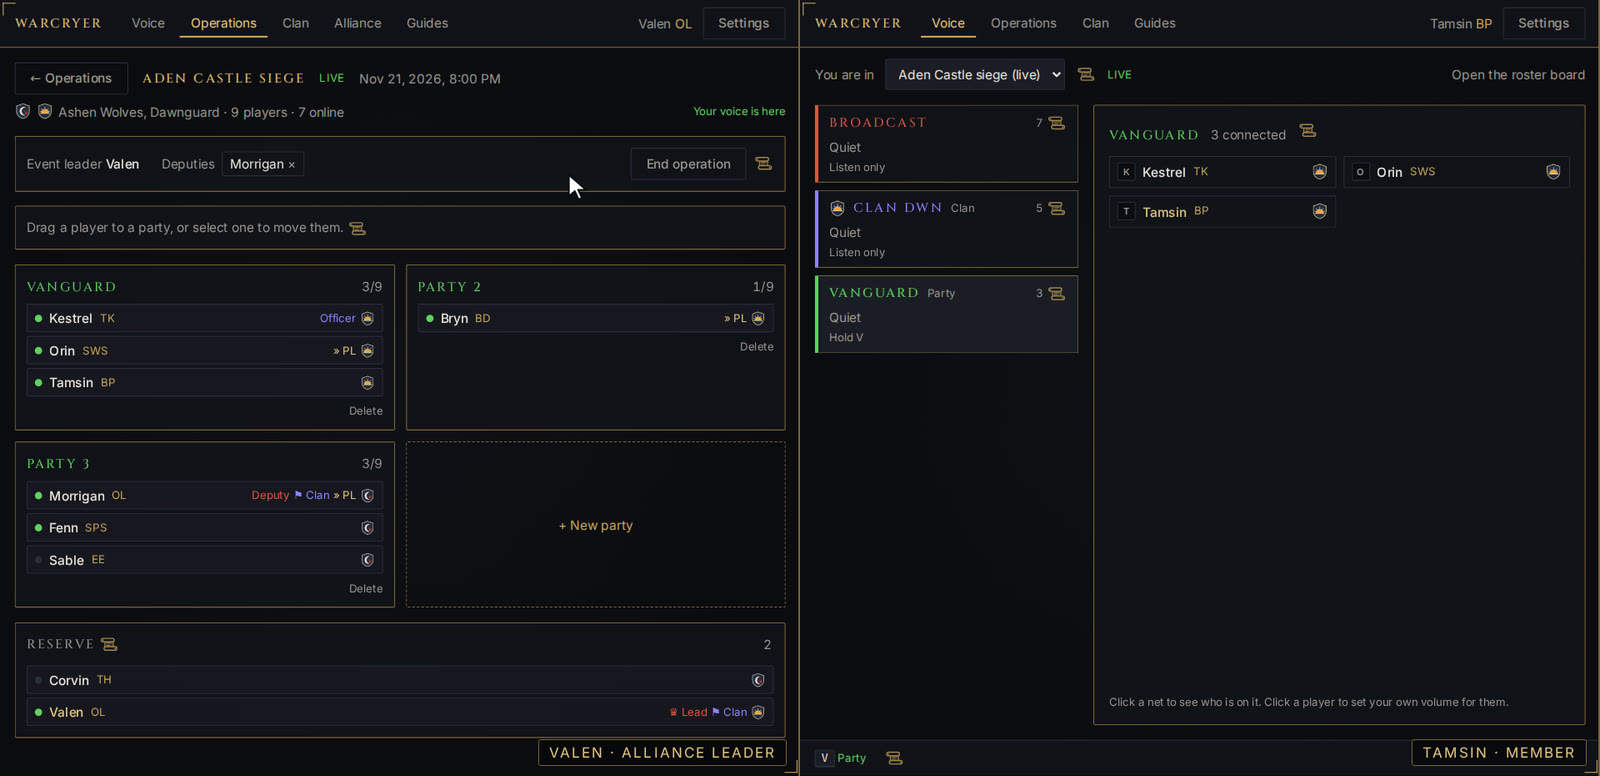
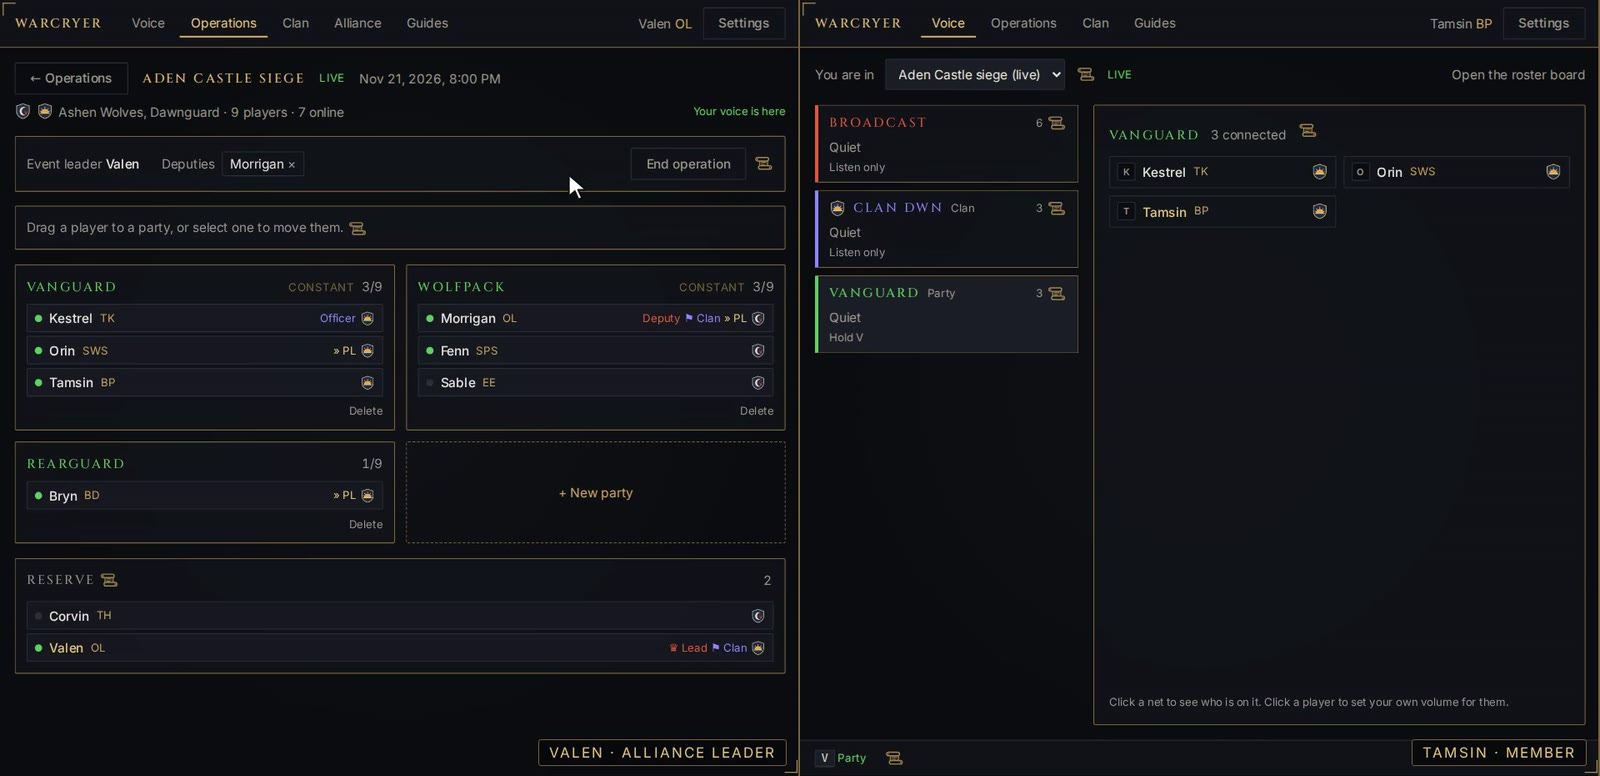
Bring the page up to date with 0.8
Constant parties, starting from an earlier operation, invite links, the
party-leader handover, signed updates and account deletion. New
screenshots from the current walkthrough recording; downloads link to
the latest release.

Claude-Session: https://claude.ai/code/session_01DWJgyuiwrFFG25WQs1oJDc

diff --git a/index.html b/index.html
@@ -21,7 +21,7 @@
     <a href="#nets">How it works</a>
     <a href="#leaders">For leaders</a>
     <a href="#open">Open source</a>
-    <a class="btn small" href="https://github.com/Warcryer/client/releases">Download</a>
+    <a class="btn small" href="https://github.com/Warcryer/client/releases/latest">Download</a>
   </nav>
 </header>
 
@@ -33,15 +33,15 @@
   <p class="tagline">Voice that follows the chain of command.</p>
   <p class="lede">Push-to-talk voice for large gaming alliances. The event roster decides who hears whom, so nobody picks a channel and nobody talks over the call.</p>
   <div class="actions">
-    <a class="btn" href="https://github.com/Warcryer/client/releases">Download for Windows</a>
+    <a class="btn" href="https://github.com/Warcryer/client/releases/latest">Download for Windows</a>
     <a class="btn quiet" href="https://github.com/Warcryer/client">Source on GitHub</a>
   </div>
-  <p class="fine">Free and open source. Windows 10 and 11. Early test builds, not yet code-signed.</p>
+  <p class="fine">Free and open source. Windows 10 and 11. Updates itself. Not yet code-signed, so Windows warns on the first install.</p>
 </section>
 
 <section class="shot">
   <figure>
-    <img src="shots/board.jpg" alt="Two players side by side: the leader's roster board with parties of players, and a member's voice screen with their nets" width="1600" height="775" loading="lazy">
+    <img src="shots/board.jpg" alt="Two players side by side: the leader's roster board with three parties, two of them marked as constant parties, and a member's voice screen with her nets" width="1600" height="775" loading="lazy">
     <figcaption>Left, the leader's roster board. Right, the nets a member was placed on. Drag a player to another party and their voice follows within a couple of seconds.</figcaption>
   </figure>
 </section>
@@ -90,19 +90,40 @@
       <figcaption>Left, the leader holds the Broadcast key. Right, a member's Clan and Party nets are lowered.</figcaption>
     </figure>
   </div>
+
+  <div class="split flip">
+    <figure>
+      <img src="shots/handover.jpg" alt="Two players side by side, each with a bar across the top: Orin has dropped out, Vanguard has no one on Command, who leads it now, with buttons to choose" width="1600" height="775" loading="lazy">
+      <figcaption>The party's leader has dropped out. The party (right) and the clan's leader (left) are asked who leads now.</figcaption>
+    </figure>
+    <div>
+      <h3>A party is never cut off</h3>
+      <p>A party's leader is its only voice on Command. If the leader's game crashes or their connection dies, the party and the clan's officers are asked after about thirty seconds who leads now. One click settles it.</p>
+      <h3>And if nobody answers</h3>
+      <p>After thirty seconds more the next member in party order is promoted automatically. The new leader is told, and is on Command at once.</p>
+    </div>
+  </div>
 </section>
 
 <section id="leaders">
   <h2>Run the alliance from the same window</h2>
   <p class="intro">No bouncing between a website, a spreadsheet and a voice app. Each screen offers only what your role allows, and the server checks every action again.</p>
-  <div class="cards">
+  <div class="cards three">
     <article>
       <h3>Operations</h3>
       <p>Create a siege or raid, choose the clans taking part, build parties on a drag-and-drop board, then go live. Everyone on the roster is pulled into their nets at once.</p>
     </article>
     <article>
-      <h3>Clans</h3>
-      <p>Players ask to join; leaders and officers approve. A clan leader can upload a crest, which appears beside each member's name when they speak.</p>
+      <h3>Constant parties</h3>
+      <p>Groups that always fight together are saved once, in order, with a leader. On the board one click places them all, which for most events is most of the roster.</p>
+    </article>
+    <article>
+      <h3>Start from last time</h3>
+      <p>A new operation can begin with the parties, leaders and deputies of an earlier one. Players who have left or been banned since are left out automatically.</p>
+    </article>
+    <article>
+      <h3>Clans and invite links</h3>
+      <p>Players ask to join and leaders approve, or a leader sends an invite link with a set number of uses and days. A clan's crest appears beside each member's name when they speak.</p>
     </article>
     <article>
       <h3>The lounge</h3>
@@ -121,7 +142,7 @@
 
 <section id="open">
   <h2>Open source, and quiet about your data</h2>
-  <div class="cards three">
+  <div class="cards">
     <article>
       <h3>The client is public</h3>
       <p>The Windows app is MIT licensed. Every release is built from the public repository by GitHub Actions and installed and tested on a clean Windows machine before it is published.</p>
@@ -133,17 +154,22 @@
     </article>
     <article>
       <h3>Nothing recorded</h3>
-      <p>Voice is relayed live and not stored. Key presses are not logged or sent; only the keys you bind are acted on. No telemetry, no ads.</p>
+      <p>Voice is relayed live and not stored. Key presses are not logged or sent; only the keys you bind are acted on. No telemetry, no ads. You can delete your account, and everything kept about you, from the app.</p>
       <p><a href="https://github.com/Warcryer/client/blob/main/PRIVACY.md">Read the privacy policy</a></p>
+    </article>
+    <article>
+      <h3>Signed updates</h3>
+      <p>The app keeps itself up to date, and accepts an update only if it carries the project's signature. Nothing installs mid-event: an update waits for a restart you choose.</p>
+      <p><a href="https://github.com/Warcryer/client#updates">How updates work</a></p>
     </article>
   </div>
 </section>
 
 <section id="status" class="status">
   <h2>Where it stands</h2>
-  <p>Warcryer is in early testing with one alliance. The Windows client is open source and its test builds are public. Hosting for other alliances is not available yet.</p>
+  <p>Warcryer is in early testing with one alliance. The Windows client is open source and its releases are public. Hosting for other alliances is not available yet.</p>
   <div class="actions">
-    <a class="btn" href="https://github.com/Warcryer/client/releases">Download for Windows</a>
+    <a class="btn" href="https://github.com/Warcryer/client/releases/latest">Download for Windows</a>
     <a class="btn quiet" href="https://github.com/Warcryer/client/tree/main/docs">Read the guides</a>
   </div>
 </section>

diff --git a/style.css b/style.css
@@ -93,7 +93,10 @@ figcaption { color: var(--muted); font-size: .88rem; margin-top: .8em; text-alig
 
 .split { display: grid; grid-template-columns: minmax(0, 5fr) minmax(0, 7fr); gap: clamp(24px, 4vw, 56px); align-items: center; }
 .split p { color: var(--muted); margin-bottom: 1.6em; }
+.split + .split { margin-top: clamp(40px, 6vw, 72px); }
+.split.flip { grid-template-columns: minmax(0, 7fr) minmax(0, 5fr); }
 @media (max-width: 860px) { .split { grid-template-columns: 1fr; } }
+@media (max-width: 860px) { .split.flip { grid-template-columns: 1fr; } .split.flip figure { order: 2; } }
 
 /* Cards */
 .cards { display: grid; grid-template-columns: repeat(4, 1fr); gap: 14px; }
